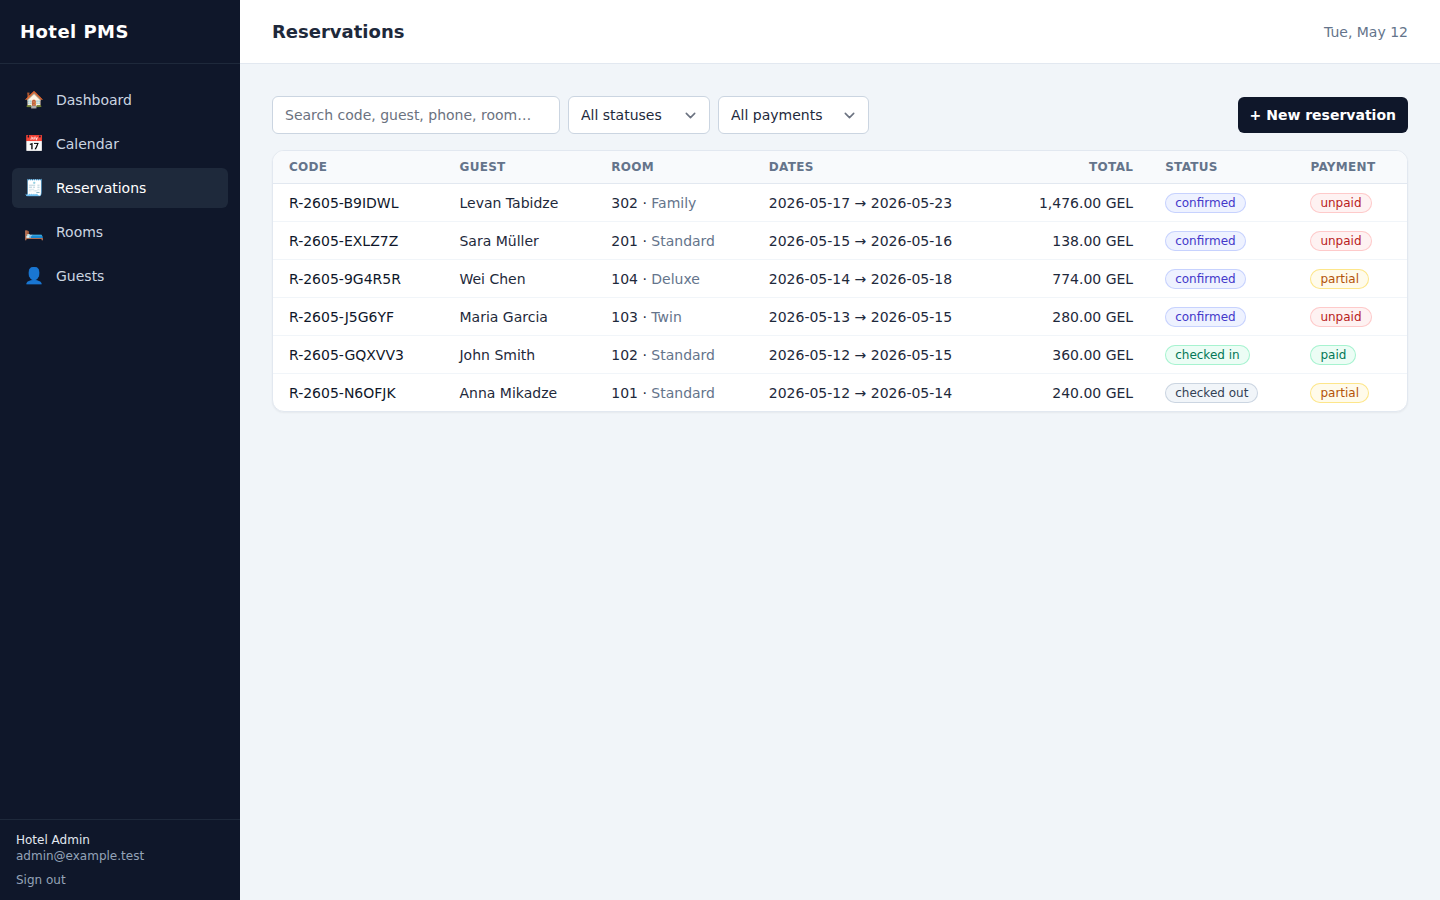
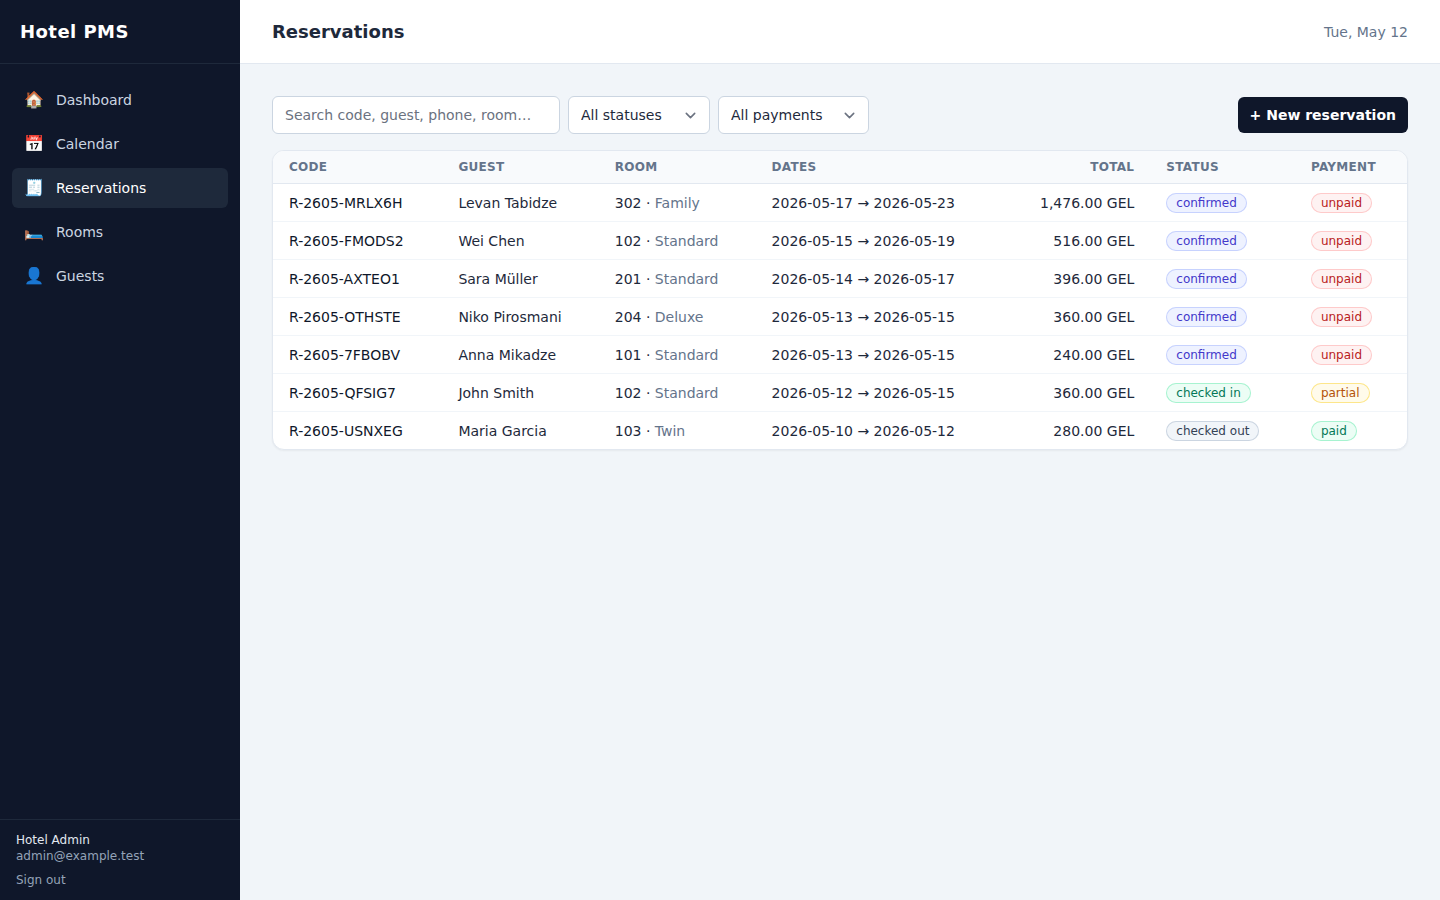
Phase 1 UI: 17 comprehensive screenshots + Alpine duplicate-instance fix
Recaptured screenshots covering every state requested:

  01-login.png                          /login
  02-dashboard.png                      /dashboard
  03-calendar.png                       /calendar (rooms × 30 days)
  04-rooms.png                          /rooms (status grid)
  05-reservations-list.png              /reservations
  06-wizard-step-1-dates.png            /reservations/create — Step 1
  07-wizard-step-2-room.png             /reservations/create — Step 2 (initial)
  07b-wizard-step-2-room-picked.png     /reservations/create — Step 2 (selected, quote panel visible)
  08-wizard-step-3-guest.png            /reservations/create — Step 3
  09-wizard-step-4-confirm.png          /reservations/create — Step 4
  10-reservation-detail-confirmed.png   confirmed reservation — Check-in button visible
  11-payment-modal.png                  payment modal open with pre-filled balance
  12-reservation-detail-checked-in.png  checked-in state — Check-out button visible
  13-reservation-detail-checked-out.png checked-out state — View invoice button visible
  14-invoice.png                        printable invoice
  15-mobile-dashboard.png               mobile dashboard
  16-mobile-sidebar-open.png            mobile sidebar drawer open
  17-mobile-calendar.png                mobile calendar (horizontal scroll)

Bug fixed during capture:

  Breeze's `resources/js/app.js` was starting a second Alpine instance
  ("Detected multiple instances of Alpine running"), which broke
[…]

diff --git a/resources/js/app.js b/resources/js/app.js
@@ -1,7 +1,6 @@
 import './bootstrap';
 
-import Alpine from 'alpinejs';
-
-window.Alpine = Alpine;
-
-Alpine.start();
+// Alpine is bundled with Livewire 3 — do not start a second instance here.
+// (Breeze ships an `import Alpine from 'alpinejs'; Alpine.start();` which
+// causes "Detected multiple instances of Alpine running" and breaks
+// wire:model initial-value rendering.)

diff --git a/resources/views/livewire/reservations/wizard.blade.php b/resources/views/livewire/reservations/wizard.blade.php
@@ -42,12 +42,12 @@
                 </div>
                 <div>
                     <label class="block text-sm font-medium text-slate-700">Adults</label>
-                    <input type="number" min="1" max="8" wire:model="adults"
+                    <input type="number" min="1" max="8" wire:model.live="adults"
                            class="mt-1 w-full rounded-md border-slate-300">
                 </div>
                 <div>
                     <label class="block text-sm font-medium text-slate-700">Children</label>
-                    <input type="number" min="0" max="8" wire:model="children"
+                    <input type="number" min="0" max="8" wire:model.live="children"
                            class="mt-1 w-full rounded-md border-slate-300">
                 </div>
             </div>

diff --git a/docs/screenshots/README.md b/docs/screenshots/README.md
@@ -1,34 +1,45 @@
 # Phase 1 UI — Visual Preview
 
-Captured against `claude/hotel-pms-channel-manager-jj7LT` at 1440×900 (desktop) and 390×844 (mobile).
-Demo data: 6 reservations across 6 rooms, 2 checked in, 1 checked out and invoiced.
+Captured at 1440×900 (desktop, @2x) and 390×844 (mobile, @2x) against a
+freshly seeded database with three reservations covering the full state
+machine: confirmed (R1 / Anna), checked-in with partial payment (R2 / John),
+checked-out with paid invoice (R3 / Maria), plus four additional confirmed
+reservations so the calendar isn't empty.
 
-## Desktop
+## Mapping to the request
 
-| # | Page | URL | Screenshot |
-|---|------|-----|------------|
-| 1 | Login                 | `/login`                | [01-login.png](./01-login.png) |
-| 2 | Dashboard             | `/dashboard`            | [02-dashboard.png](./02-dashboard.png) |
-| 3 | Calendar              | `/calendar`             | [03-calendar.png](./03-calendar.png) |
-| 4 | Rooms                 | `/rooms`                | [04-rooms.png](./04-rooms.png) |
-| 5 | Reservations list     | `/reservations`         | [05-reservations-list.png](./05-reservations-list.png) |
-| 6 | Reservation wizard    | `/reservations/create`  | [06-reservation-wizard.png](./06-reservation-wizard.png) |
-| 7 | Reservation detail    | `/reservations/{id}`    | [07-reservation-detail.png](./07-reservation-detail.png) |
-| 8 | Invoice               | `/invoices/{id}`        | [08-invoice.png](./08-invoice.png) |
-| 9 | Guests                | `/guests`               | [09-guests.png](./09-guests.png) |
+| # | Requested | File |
+|---|-----------|------|
+| 1 | Login                                  | [01-login.png](./01-login.png) |
+| 2 | Dashboard                              | [02-dashboard.png](./02-dashboard.png) |
+| 3 | Calendar                               | [03-calendar.png](./03-calendar.png) |
+| 4 | Rooms                                  | [04-rooms.png](./04-rooms.png) |
+| 5 | Reservations list                      | [05-reservations-list.png](./05-reservations-list.png) |
+| 6 | Wizard — Step 1 (dates)                | [06-wizard-step-1-dates.png](./06-wizard-step-1-dates.png) |
+| 7 | Wizard — Step 2 (room selection)       | [07-wizard-step-2-room.png](./07-wizard-step-2-room.png) + [07b-wizard-step-2-room-picked.png](./07b-wizard-step-2-room-picked.png) (with selection + quote) |
+| 8 | Wizard — Step 3 (guest)                | [08-wizard-step-3-guest.png](./08-wizard-step-3-guest.png) |
+| 9 | Wizard — Step 4 (confirm)              | [09-wizard-step-4-confirm.png](./09-wizard-step-4-confirm.png) |
+| 10 | Reservation detail                    | [10-reservation-detail-confirmed.png](./10-reservation-detail-confirmed.png) |
+| 11 | Payment modal                         | [11-payment-modal.png](./11-payment-modal.png) |
+| 12 | Check-in / check-out states           | [12-reservation-detail-checked-in.png](./12-reservation-detail-checked-in.png) and [13-reservation-detail-checked-out.png](./13-reservation-detail-checked-out.png) |
+| 13 | Invoice                                | [14-invoice.png](./14-invoice.png) |
+| 14 | Mobile dashboard                       | [15-mobile-dashboard.png](./15-mobile-dashboard.png) |
+| 15 | Mobile calendar / menu                 | [16-mobile-sidebar-open.png](./16-mobile-sidebar-open.png) (sidebar drawer) and [17-mobile-calendar.png](./17-mobile-calendar.png) |
 
-## Mobile (iPhone 14 Pro viewport)
+## Seeded data used for these captures
 
-- [mobile-02-dashboard.png](./mobile-02-dashboard.png)
-- [mobile-03-calendar.png](./mobile-03-calendar.png)
-- [mobile-04-rooms.png](./mobile-04-rooms.png)
-- [mobile-07-reservation-detail.png](./mobile-07-reservation-detail.png)
+- 1 property (Hotel Tbilisi, GEL, VAT 18%) · 12 rooms across 4 types
+- Reservations:
+  - **R1** `R-2605-7FBOBV` — Anna Mikadze, Room 101, tomorrow + 2 nights, **confirmed**
+  - **R2** `R-2605-QFSIG7` — John Smith, Room 102, today + 3 nights, **checked-in**, **partial payment**
+  - **R3** `R-2605-USNXEG` — Maria Garcia, Room 103, 2 days ago + 2 nights, **checked-out**, **paid**, invoice **HT-2026-000001**
+  - Plus Wei Chen, Sara Müller, Levan Tabidze, Niko Pirosmani — confirmed, future, varied sources
 
 ## Reproducing locally
 
 ```sh
 brew install php composer            # if you don't have them
-cd ~/Desktop/hangover/backend        # or wherever you cloned the repo
+cd ~/Desktop/hangover/backend
 composer install
 cp .env.example .env && php artisan key:generate
 touch database/database.sqlite
